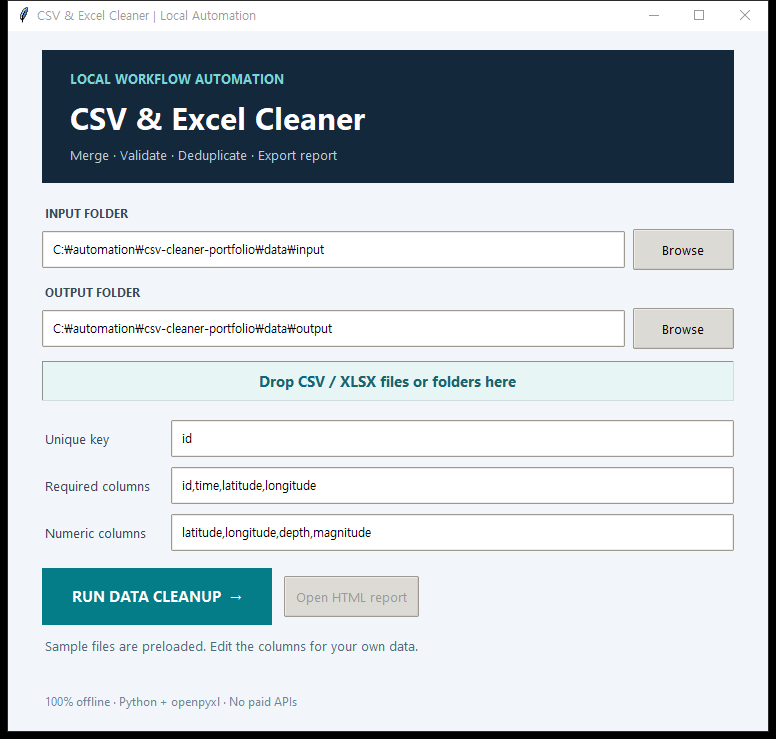
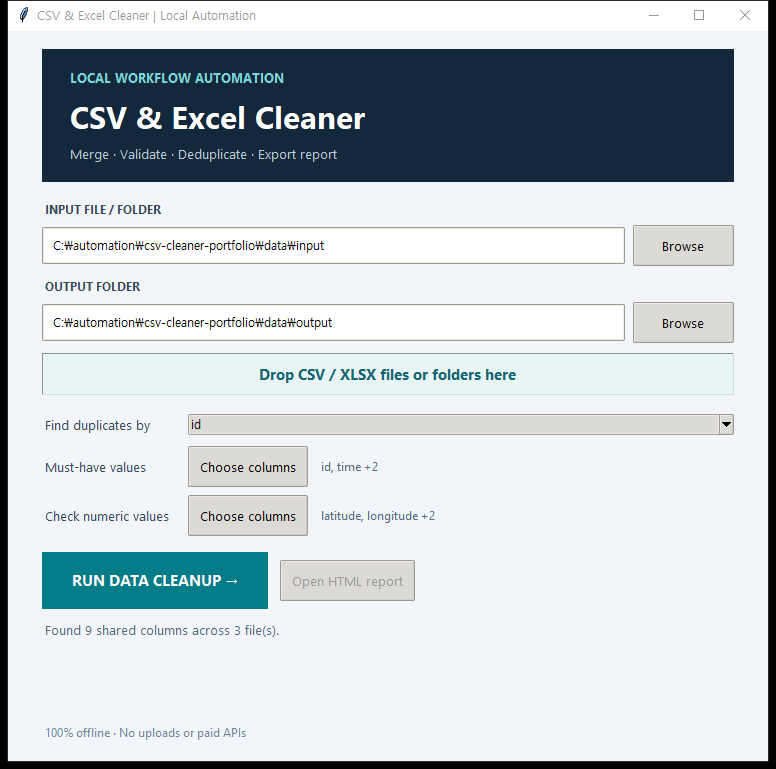
ux: choose data validation columns from detected headers

diff --git a/gui.py b/gui.py
@@ -1,116 +1,214 @@
-"""Tiny offline desktop interface. No account, uploads, or server required."""
+"""Small offline CSV/Excel desktop UI. One processing engine, no cloud."""
 from pathlib import Path
+from queue import Empty, Queue
+import threading
 import tkinter as tk
 from tkinter import filedialog, messagebox, ttk
 import webbrowser
-import threading
-from queue import Empty, Queue
 
 from tkinterdnd2 import DND_FILES, TkinterDnD
-from cleaner import DEFAULT_KEY, DEFAULT_REQUIRED, DEFAULT_NUMERIC, process
+
+from cleaner import DEFAULT_KEY, normalize_header, process
+from spreadsheet_io import read_header
 
 ROOT = Path(__file__).resolve().parent
+SAMPLE_REQUIRED = "id,time,latitude,longitude"
+SAMPLE_NUMERIC = "latitude,longitude,depth,magnitude"
 
 
 class Window(TkinterDnD.Tk):
     def __init__(self):
         super().__init__()
         self.title("CSV & Excel Cleaner | Local Automation")
-        self.geometry("760x700")
-        self.minsize(660, 650)
+        self.geometry("760x730")
+        self.minsize(660, 690)
         self.configure(bg="#f2f6fa")
         self.input_var = tk.StringVar(value=str(ROOT / "data" / "input"))
         self.output_var = tk.StringVar(value=str(ROOT / "data" / "output"))
         self.key_var = tk.StringVar(value=DEFAULT_KEY)
-        self.required_var = tk.StringVar(value="id,time,latitude,longitude")
-        self.numeric_var = tk.StringVar(value="latitude,longitude,depth,magnitude")
+        self.required_var = tk.StringVar(value=SAMPLE_REQUIRED)
+        self.numeric_var = tk.StringVar(value=SAMPLE_NUMERIC)
+        self.required_preview = tk.StringVar()
+        self.numeric_preview = tk.StringVar()
+        self.columns = []
         self.events = Queue()
         self.report_path = None
         self.dropped = None
         self.input_var.trace_add("write", lambda *_: setattr(self, "dropped", None))
         self._build()
+        self._load_columns(keep_sample=True)
 
     def _build(self):
         style = ttk.Style(self)
         style.theme_use("clam")
         style.configure("TEntry", padding=9, relief="flat", borderwidth=1)
         style.configure("TButton", padding=9, font=("Segoe UI", 10))
-        outer = tk.Frame(self, bg="#f2f6fa", padx=34, pady=19)
+        outer = tk.Frame(self, bg="#f2f6fa", padx=34, pady=18)
         outer.pack(fill="both", expand=True)
         header = tk.Frame(outer, bg="#14283b", padx=25, pady=17)
-        header.pack(fill="x", pady=(0, 20))
+        header.pack(fill="x", pady=(0, 17))
         tk.Label(header, text="LOCAL WORKFLOW AUTOMATION", bg="#14283b", fg="#78d6d9",
                  font=("Segoe UI", 10, "bold")).pack(anchor="w")
         tk.Label(header, text="CSV & Excel Cleaner", bg="#14283b", fg="white",
                  font=("Segoe UI", 23, "bold")).pack(anchor="w", pady=(3, 2))
         tk.Label(header, text="Merge · Validate · Deduplicate · Export report",
                  bg="#14283b", fg="#b9ceda", font=("Segoe UI", 10)).pack(anchor="w")
+
         form = tk.Frame(outer, bg="#f2f6fa")
         form.pack(fill="x")
-        self._folder(form, "INPUT FOLDER", self.input_var, 0)
+        self._folder(form, "INPUT FILE / FOLDER", self.input_var, 0)
         self._folder(form, "OUTPUT FOLDER", self.output_var, 1)
         drop = tk.Label(form, text="Drop CSV / XLSX files or folders here",
                         bg="#e8f5f5", fg="#176472", font=("Segoe UI", 11, "bold"),
-                        relief="groove", bd=1, pady=9)
+                        relief="groove", bd=1, pady=10)
         drop.grid(row=2, column=0, columnspan=2, sticky="ew", pady=(0, 12))
         drop.drop_target_register(DND_FILES)
         drop.dnd_bind("<<Drop>>", self._drop)
+
         options = tk.Frame(form, bg="#f2f6fa")
-        options.grid(row=3, column=0, columnspan=2, sticky="ew", pady=(2, 8))
+        options.grid(row=3, column=0, columnspan=2, sticky="ew", pady=(0, 7))
         options.grid_columnconfigure(1, weight=1)
-        for index, (title, variable) in enumerate([
-            ("Unique key", self.key_var),
-            ("Required columns", self.required_var),
-            ("Numeric columns", self.numeric_var),
-        ]):
-            tk.Label(options, text=title, bg="#f2f6fa", fg="#37485a",
-                     font=("Segoe UI", 10)).grid(row=index, column=0, sticky="w", pady=5, padx=(0, 18))
-            ttk.Entry(options, textvariable=variable).grid(row=index, column=1, sticky="ew", pady=5)
+        for row, caption in enumerate(("Find duplicates by", "Must-have values", "Check numeric values")):
+            tk.Label(options, text=caption, bg="#f2f6fa", fg="#37485a",
+                     font=("Segoe UI", 10)).grid(row=row, column=0, sticky="w", pady=6, padx=(0, 16))
+        self.key_combo = ttk.Combobox(options, textvariable=self.key_var, state="readonly")
+        self.key_combo.grid(row=0, column=1, sticky="ew", pady=6)
+        for row, var, name in ((1, self.required_preview, "required"),
+                               (2, self.numeric_preview, "numeric")):
+            line = tk.Frame(options, bg="#f2f6fa")
+            line.grid(row=row, column=1, sticky="ew", pady=4)
+            ttk.Button(line, text="Choose columns", command=lambda kind=name: self._pick(kind)).pack(side="left")
+            tk.Label(line, textvariable=var, bg="#f2f6fa", fg="#526b7b",
+                     font=("Segoe UI", 9), anchor="w").pack(side="left", padx=10)
+
         actions = tk.Frame(outer, bg="#f2f6fa")
-        actions.pack(fill="x", pady=(4, 9))
-        self.run_btn = tk.Button(actions, text="RUN DATA CLEANUP  →", bg="#047d89", fg="white",
+        actions.pack(fill="x", pady=(5, 9))
+        self.run_btn = tk.Button(actions, text="RUN DATA CLEANUP →", bg="#047d89", fg="white",
                                  relief="flat", cursor="hand2", font=("Segoe UI", 11, "bold"),
                                  padx=24, pady=12, command=self._run)
         self.run_btn.pack(side="left")
-        self.report_btn = ttk.Button(actions, text="Open HTML report", command=self._report, state="disabled")
+        self.report_btn = ttk.Button(actions, text="Open HTML report",
+                                     command=self._report, state="disabled")
         self.report_btn.pack(side="left", padx=12)
-        self.status = tk.StringVar(value="Sample files are preloaded. Edit the columns for your own data.")
+        self.status = tk.StringVar(value="Select the columns to check, then run.")
         tk.Label(outer, textvariable=self.status, bg="#f2f6fa", fg="#526b7b",
                  wraplength=650, justify="left", font=("Segoe UI", 10)).pack(anchor="w")
-        tk.Label(outer, text="100% offline · Python + openpyxl · No paid APIs",
+        tk.Label(outer, text="100% offline · No uploads or paid APIs",
                  bg="#f2f6fa", fg="#708596", font=("Segoe UI", 9)).pack(side="bottom", anchor="w")
 
     def _folder(self, parent, title, variable, row):
         frame = tk.Frame(parent, bg="#f2f6fa")
-        frame.grid(row=row, column=0, columnspan=2, sticky="ew", pady=(0, 12))
+        frame.grid(row=row, column=0, columnspan=2, sticky="ew", pady=(0, 10))
         parent.grid_columnconfigure(0, weight=1)
         frame.grid_columnconfigure(0, weight=1)
         tk.Label(frame, text=title, bg="#f2f6fa", fg="#37485a",
                  font=("Segoe UI", 9, "bold")).grid(row=0, column=0, sticky="w")
-        ttk.Entry(frame, textvariable=variable).grid(row=1, column=0, sticky="ew", pady=(5, 0))
-        ttk.Button(frame, text="Browse", command=lambda: variable.set(
-            filedialog.askdirectory(initialdir=variable.get()) or variable.get()
-        )).grid(row=1, column=1, padx=(8, 0), pady=(5, 0))
+        entry = ttk.Entry(frame, textvariable=variable)
+        entry.grid(row=1, column=0, sticky="ew", pady=(5, 0))
+        if variable is self.input_var:
+            entry.bind("<Return>", lambda _: self._load_columns())
+            entry.bind("<FocusOut>", lambda _: self._load_columns())
+        ttk.Button(frame, text="Browse", command=lambda: self._browse(variable)).grid(
+            row=1, column=1, padx=(8, 0), pady=(5, 0))
+
+    def _browse(self, variable):
+        folder = filedialog.askdirectory(initialdir=variable.get() if Path(variable.get()).is_dir() else str(ROOT))
+        if folder:
+            variable.set(folder)
+            if variable is self.input_var:
+                self._load_columns()
 
     def _drop(self, event):
-        paths = [Path(p) for p in self.tk.splitlist(event.data)]
+        paths = [Path(value) for value in self.tk.splitlist(event.data)]
         if not paths or any(not p.exists() or
                             (p.is_file() and p.suffix.lower() not in (".csv", ".xlsx"))
                             for p in paths):
             messagebox.showerror("Unsupported drop", "Drop existing CSV/XLSX files or folders.")
             return
-        if len(paths) == 1 and paths[0].is_dir():
-            self.input_var.set(str(paths[0]))
-        else:
-            self.input_var.set(f"{len(paths)} dropped item(s)")
-            self.dropped = [str(p) for p in paths]
-        if (self.required_var.get() == "id,time,latitude,longitude" and
-                self.numeric_var.get() == "latitude,longitude,depth,magnitude"):
-            self.required_var.set(DEFAULT_REQUIRED)
-            self.numeric_var.set(DEFAULT_NUMERIC)
-        self.status.set(f"Selected {len(paths)} item(s). Check the key and validation fields, then run.")
+        self.input_var.set(str(paths[0]) if len(paths) == 1 else f"{len(paths)} dropped items")
+        self.dropped = [str(p) for p in paths] if len(paths) > 1 else None
+        self._load_columns()
+
+    def _load_columns(self, keep_sample=False):
+        """Show only fields shared by every selected file, matching core validation."""
+        source = self.dropped or [self.input_var.get()]
+        try:
+            files = sorted({f.resolve() for item in source for p in [Path(item)]
+                            for f in (p.iterdir() if p.is_dir() else [p])
+                            if f.is_file() and f.suffix.lower() in (".csv", ".xlsx")
+                            and not f.name.startswith("~$")})
+            if not files:
+                raise ValueError("No CSV/XLSX files found. Choose an input folder or drop files.")
+            headers = [[normalize_header(value) for value in read_header(file)] for file in files]
+            self.columns = [col for col in headers[0] if col and all(col in fields for fields in headers[1:])]
+            if not self.columns:
+                raise ValueError("Selected files have no column names in common.")
+            self.key_combo["values"] = self.columns
+            self.key_var.set(DEFAULT_KEY if DEFAULT_KEY in self.columns else self.columns[0])
+            self.required_var.set(
+                ",".join(c for c in SAMPLE_REQUIRED.split(",") if c in self.columns)
+                if keep_sample else self.key_var.get())
+            self.numeric_var.set(
+                ",".join(c for c in SAMPLE_NUMERIC.split(",") if c in self.columns)
+                if keep_sample else "")
+            self._refresh_previews()
+            self.run_btn.configure(state="normal")
+            self.status.set(f"Found {len(self.columns)} shared columns across {len(files)} file(s).")
+        except (OSError, ValueError, UnicodeError) as exc:
+            self.columns = []
+            self.key_combo["values"] = ()
+            self.run_btn.configure(state="disabled")
+            self.status.set(f"Input: {exc}")
+
+    def _refresh_previews(self):
+        for var, preview in ((self.required_var, self.required_preview),
+                             (self.numeric_var, self.numeric_preview)):
+            fields = var.get().split(",") if var.get() else []
+            preview.set(", ".join(fields[:2]) + (f" +{len(fields)-2}" if len(fields) > 2 else "")
+                        if fields else "None selected")
+
+    def _pick(self, kind):
+        if not self.columns:
+            messagebox.showinfo("Choose input", "Drop a file or select a folder first.")
+            return
+        variable = self.required_var if kind == "required" else self.numeric_var
+        selected = set(variable.get().split(",")) if variable.get() else set()
+        dialog = tk.Toplevel(self)
+        dialog.title("Required values" if kind == "required" else "Validate as numbers")
+        dialog.geometry("400x440")
+        dialog.transient(self)
+        dialog.grab_set()
+        tk.Label(dialog, text="Check the columns to validate", font=("Segoe UI", 11, "bold"),
+                 pady=12).pack()
+        content = ttk.Frame(dialog)
+        content.pack(fill="both", expand=True, padx=15)
+        canvas = tk.Canvas(content, highlightthickness=0)
+        scrollbar = ttk.Scrollbar(content, orient="vertical", command=canvas.yview)
+        checks = ttk.Frame(canvas)
+        window = canvas.create_window((0, 0), window=checks, anchor="nw")
+        checks.bind("<Configure>", lambda _: canvas.configure(scrollregion=canvas.bbox("all")))
+        canvas.bind("<Configure>", lambda e: canvas.itemconfigure(window, width=e.width))
+        canvas.configure(yscrollcommand=scrollbar.set)
+        canvas.pack(side="left", fill="both", expand=True)
+        scrollbar.pack(side="right", fill="y")
+        flags = [(col, tk.BooleanVar(value=col in selected)) for col in self.columns]
+        for name, checked in flags:
+            ttk.Checkbutton(checks, text=name, variable=checked).pack(anchor="w", pady=3)
+
+        def apply():
+            variable.set(",".join(name for name, flag in flags if flag.get()))
+            self._refresh_previews()
+            dialog.destroy()
+
+        buttons = ttk.Frame(dialog)
+        buttons.pack(pady=12)
+        ttk.Button(buttons, text="Apply", command=apply).pack(side="left", padx=5)
+        ttk.Button(buttons, text="Cancel", command=dialog.destroy).pack(side="left", padx=5)
 
     def _run(self):
+        if not self.columns:
+            messagebox.showerror("Choose input", "Select CSV/XLSX files first.")
+            return
         self.report_path = None
         self.report_btn.configure(state="disabled")
         self.run_btn.configure(state="disabled")

diff --git a/README.md b/README.md
@@ -15,6 +15,7 @@ Manually opening multiple spreadsheet exports, copying rows, checking missing fi
 | Feature | Status |
 |---|---|
 | Drag-and-drop CSV/XLSX files or folders | Supported |
+| Auto-detect columns; choose duplicate/required/numeric fields without typing | Supported |
 | Batch import CSV and .xlsx | Supported |
 | Mixed CSV/XLSX input folder | Supported |
 | First worksheet of each .xlsx | Supported |
@@ -59,12 +60,12 @@ On Windows, double-click `run_demo.bat` or run:
 python gui.py
 ```
 
-1. **Drop** one or more CSV/XLSX files, folders, or a mixture onto the drop zone. Alternatively, select an input folder using **Browse**.
-2. Choose a separate results folder.
-3. Set the unique key (default: `id`), required columns, and numeric columns to match the input data.
-4. Click **Run Data Cleanup**, then **Open HTML report**.
+1. **Drop** one or more CSV/XLSX files or folders onto the drop zone, or select a folder using **Browse**.
+2. Confirm the **Find duplicates by** dropdown (usually an ID or record number).
+3. Click **Choose columns** beside **Must-have values** and **Check numeric values** to select the validation rules with checkboxes.
+4. Choose a separate output folder, click **Run Data Cleanup**, then **Open HTML report**.
 
-The desktop app opens with the included USGS sample folder and its validation fields prefilled. When you drop new files, those sample-specific validation defaults switch to generic `id` validation; **confirm the unique key and validation fields for your files**. Any custom rules already entered remain in place. Dropped folders contribute supported files directly inside the folder (not recursively); duplicates from overlapping selections are ignored. Drops never upload or copy your source files. The CLI retains generic defaults: unique key `id`, required `id`, and no numeric validation.
+The desktop app preloads the sample data and automatically detects column names shared by the selected files. New input selections default to `id` (or the first shared column if `id` is absent), require that column, and leave numeric checks optional. **Always confirm the duplicate key and validation choices:** they depend on what each file represents. Only common columns can be selected because configured validation columns must exist in every file. Dropped folders are scanned one level deep, and duplicate file selections are ignored. The original input files stay untouched and offline. The CLI retains generic defaults: key `id`, required `id`, and no numeric validation.
 
 ### CLI
 
@@ -149,8 +150,6 @@ data/example_output/  committed USGS sample outputs
 assets/               real screenshots of the GUI and report
 ```
 
-## Source, license and attribution
+## License and sample data
 
-Sources: **U.S. Geological Survey** earthquake observations, **NOAA/NCEI** daily station observations, and **U.S. Census Bureau** population estimates. See [DATA_SOURCES.md](DATA_SOURCES.md) and [TEST_CASES.md](TEST_CASES.md) for exact source URLs, dataset scope, reuse context and synthetic modifications.
-
-Code is MIT-licensed; that license does **not** relicense the source datasets. This independent portfolio project is not affiliated with or endorsed by any of the agencies.
+**Code:** [MIT](LICENSE). **Sample data:** USGS, NOAA and the U.S. Census Bureau; demonstration errors were synthetically generated. This project is not affiliated with those agencies. See [DATA_SOURCES.md](DATA_SOURCES.md) and [TEST_CASES.md](TEST_CASES.md) for original source links and reuse details; the MIT license applies only to our code.

diff --git a/UPWORK_PORTFOLIO.md b/UPWORK_PORTFOLIO.md
@@ -6,9 +6,9 @@
 
 Built an offline Python automation tool that merges multiple CSV and Excel (XLSX) files, standardizes column names, validates required and numeric fields, removes duplicate records, and generates reviewable reports.
 
-The tool includes a Windows-friendly desktop GUI, a command-line interface, and a visual HTML data-quality dashboard. Each run safely writes a fresh folder of cleaned, duplicate, and rejected results in both CSV and XLSX formats.
+The tool includes a Windows-friendly desktop GUI with drag-and-drop input and column selection without manual typing, a command-line interface, and a visual HTML data-quality dashboard. Each run safely writes a fresh folder of cleaned, duplicate, and rejected results in both CSV and XLSX formats.
 
-For a reproducible demonstration, I used public-domain USGS earthquake data and intentionally inserted synthetic errors. The program processed 195 records, retained 180 clean observations, isolated 6 duplicates, and flagged 9 invalid records. Thirty-one automated regression tests passed.
+For a reproducible demonstration, I tested three public U.S. government datasets (USGS, NOAA, Census) with clearly labeled synthetic errors: 582 records, 542 clean, 14 duplicates, and 26 rejected. Thirty-five automated regression tests passed.
 
 The workflow runs locally without paid APIs or uploads to external services. It is designed for clearly scoped spreadsheet cleanup projects and can be adapted to specific client file schemas.
 
